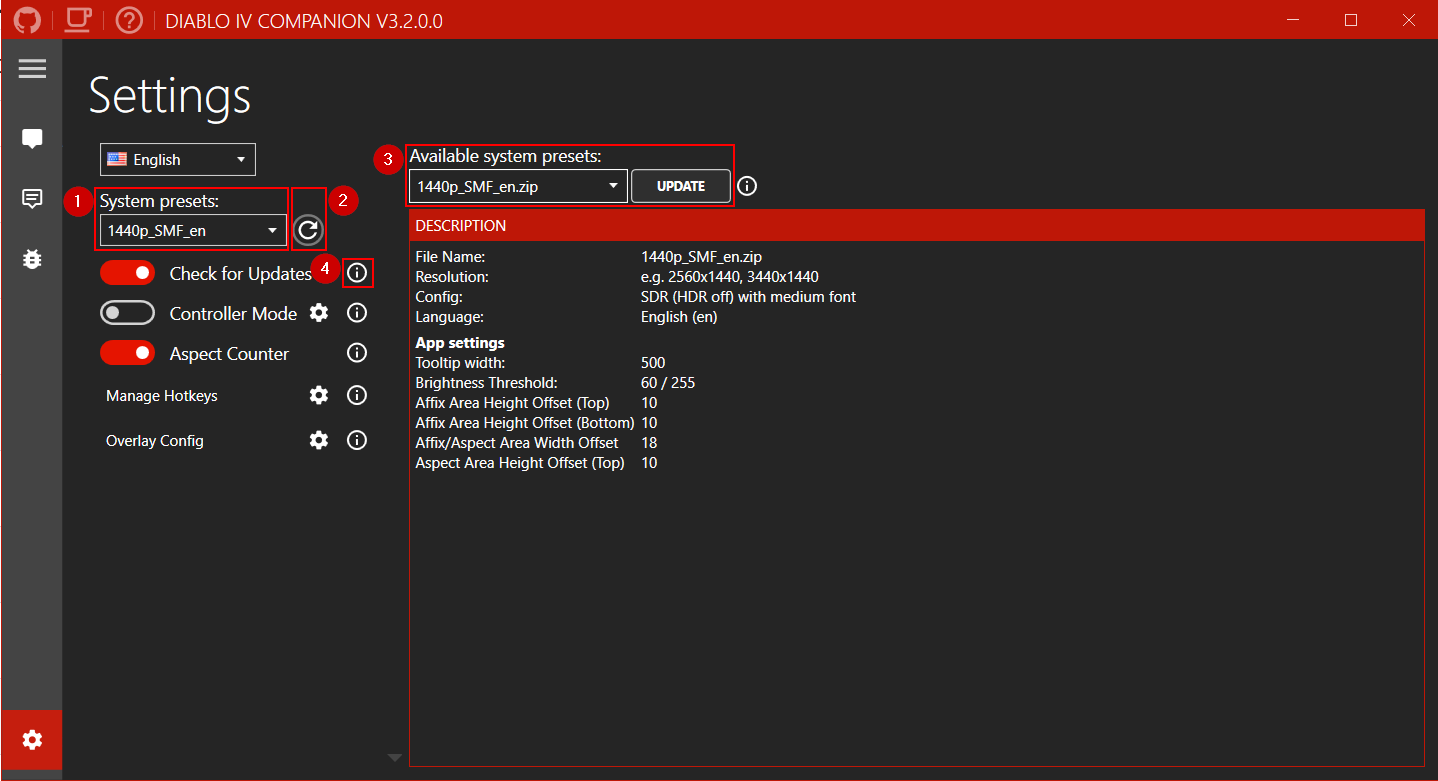
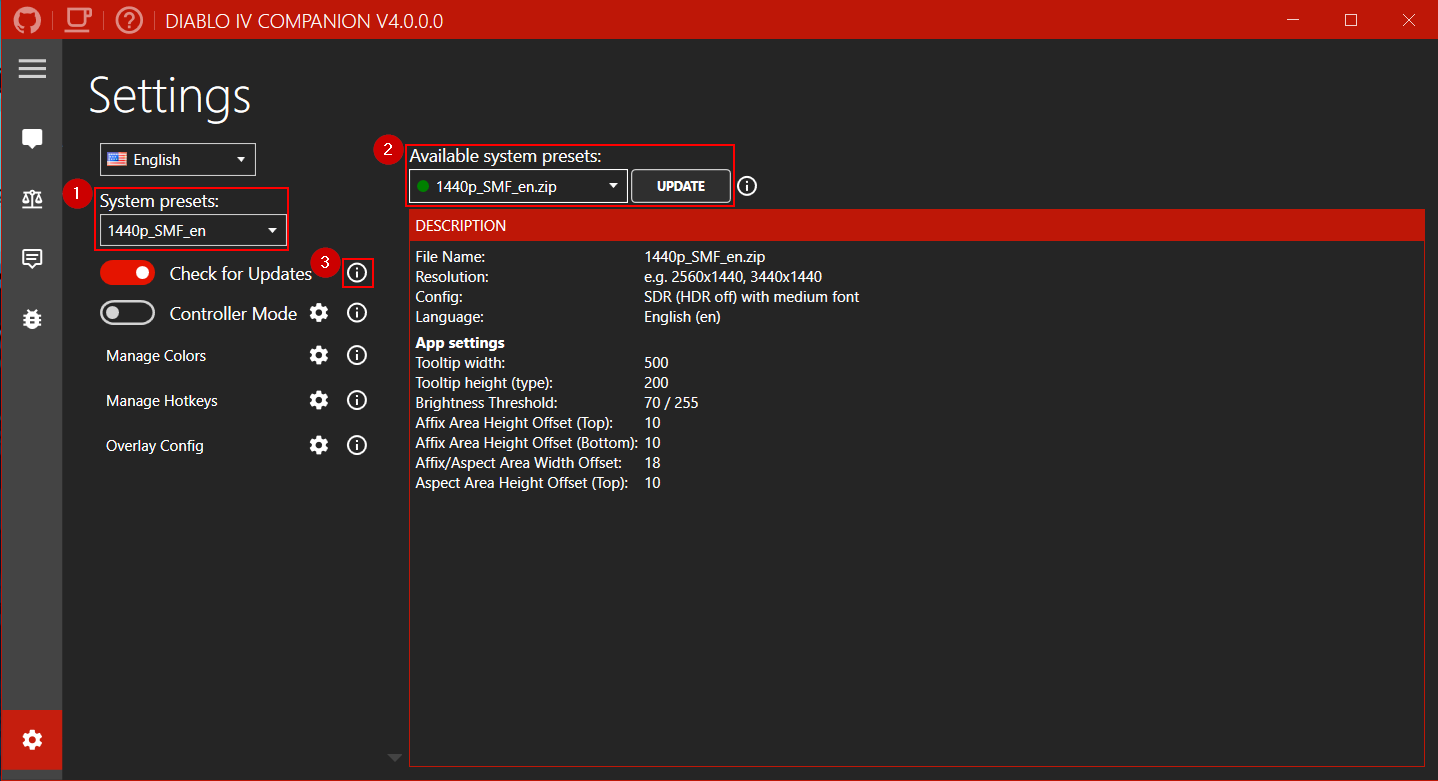
Updated readme for v4

diff --git a/README.md b/README.md
@@ -112,20 +112,23 @@ See the following [wiki](https://github.com/josdemmers/Diablo4Companion/wiki/How
 
 ![Usage-2](./readme/readme-003.png)
 
-1. Set the app as the top-most window.
-2. Set the width of the tooltip. Default for 1440p is 500. Recommended settings for other resolutions are listed when you download a system preset.
-3. Threshold sliders for filtering out background noise. Defaults for SDR is (60/255). Recommended settings for HDR are listed when you download a system preset.
-4. Area offsets for affixes/aspects descriptions. Recommended settings for each resolution are listed when you download a system preset.
-5. Similarity thresholds for matching images. A lower value means a closer match is required. Default of 0.05 is recommended.
-6. Previous debug image.
-7. Next debug image.
+1. Toggle the debug information on or off.
+2. Set the app as the top-most window.
+3. Set the width of the tooltip. Default for 1440p is 500. Recommended settings for other resolutions are listed when you download a system preset and are applied automatic when you select another preset. The height setting is used to limit item type area of the tooltip.
+4. Threshold settings for filtering out background noise. Defaults for SDR is (70/255). Recommended settings for HDR are listed when you download a system preset and are applied automatic when you select another preset.
+5. Area offsets for affixes/aspects descriptions. Recommended settings for each resolution are listed when you download a system preset and are applied automatic when you select another preset.
+6. Minimum match for OCR converted text that is acceptable. Default is 80%.
+7. Take a screenshot.
+8. Reloads the current active system preset.
+9. Previous debug image.
+10. Next debug image.
+x. Similarity thresholds for matching images. A lower value means a closer match is required. Default of 0.05 is recommended.
 
 ![Usage-3](./readme/readme-004.png)
 
 1. Select the preset matching your resolution. See [wiki](https://github.com/josdemmers/Diablo4Companion/wiki/How-to-create-a-new-System-Preset) to create your own.
-2. Reload the preset. Useful after adding new images without restarting the app.
-3. The download manager can be used to download community created system presets. If your language or resolution is missing please send them to me and I'll add them to the list. Follow the recommended app settings in the description.
-4. Hover your mouse over one of the info icons to get more detailed information about a setting.
+2. The download manager can be used to download community created system presets. If your language or resolution is missing please send them to me and I'll add them to the list. Follow the recommended app settings in the description.
+3. Hover your mouse over one of the info icons to get more detailed information about a setting.
 
 ## Troubleshooting
 
